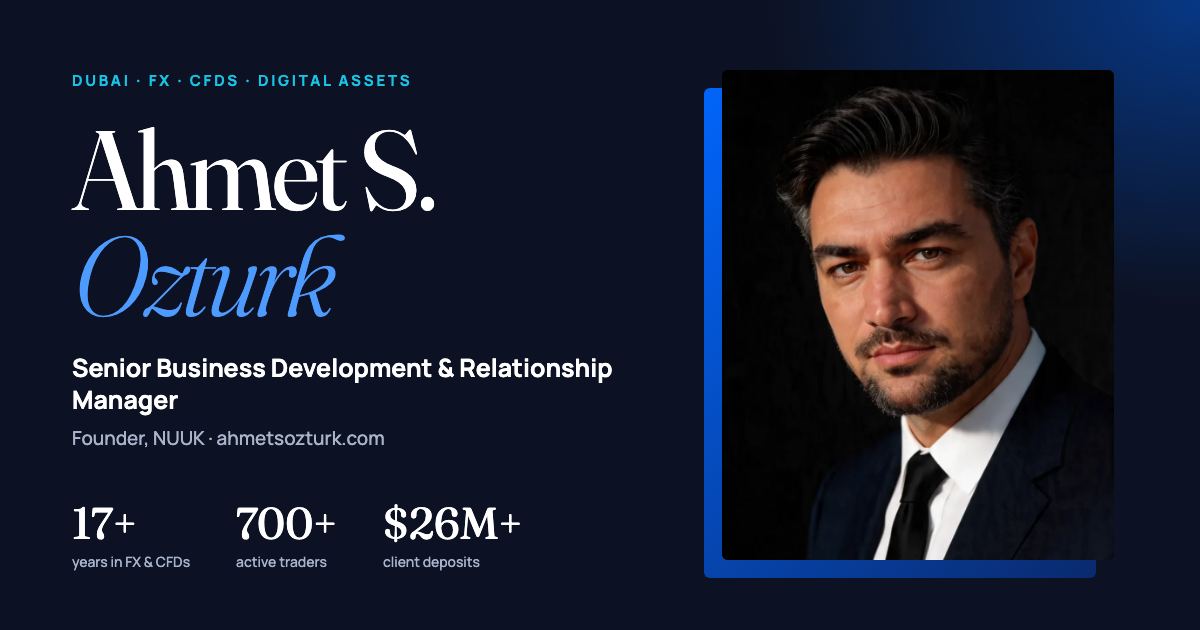
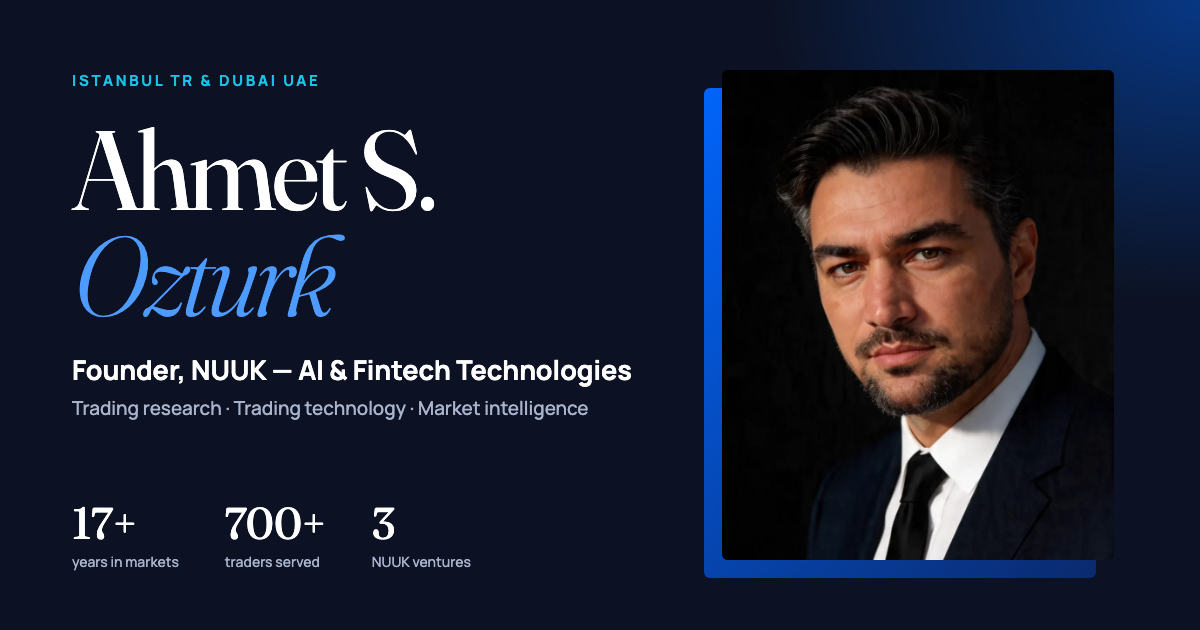
feat: reposition site as NUUK founder, AI & fintech technologies

diff --git a/index.html b/index.html
@@ -3,8 +3,8 @@
 <head>
 <meta charset="UTF-8">
 <meta name="viewport" content="width=device-width,initial-scale=1">
-<title>Ahmet S. Ozturk — FX, CFD &amp; Digital Assets BD | Founder of NUUK, Dubai</title>
-<meta name="description" content="Senior Business Development &amp; Relationship Manager with 17 years in FX and CFD brokerage across London, Istanbul and Dubai. 700+ active traders, USD 26M+ client deposits, founder of NUUK. Available immediately in Dubai.">
+<title>Ahmet S. Ozturk — Founder of NUUK | AI &amp; Fintech Technologies, Istanbul &amp; Dubai</title>
+<meta name="description" content="Ahmet S. Ozturk is the founder of NUUK, building AI-driven fintech: systematic trading research, a proprietary trading terminal and market intelligence. 17 years in FX and CFD markets across London, Istanbul and Dubai.">
 <meta name="author" content="Ahmet S. Ozturk">
 <meta name="robots" content="index, follow, max-image-preview:large">
 <meta name="theme-color" content="#f4f1ea">
@@ -14,18 +14,18 @@
 <meta property="og:type" content="profile">
 <meta property="og:url" content="https://ahmetsozturk.com/">
 <meta property="og:site_name" content="Ahmet S. Ozturk">
-<meta property="og:title" content="Ahmet S. Ozturk — Business Development &amp; Relationship Management, FX · CFDs · Digital Assets">
-<meta property="og:description" content="17 years in FX and CFD brokerage across London, Istanbul and Dubai. 700+ active traders, USD 26M+ client deposits. Founder of NUUK.">
+<meta property="og:title" content="Ahmet S. Ozturk — Founder of NUUK · AI &amp; Fintech Technologies">
+<meta property="og:description" content="Building AI-driven fintech at NUUK: systematic trading research, a proprietary trading terminal and market intelligence. Istanbul &amp; Dubai.">
 <meta property="og:image" content="https://ahmetsozturk.com/assets/og-image.png">
 <meta property="og:image:width" content="1200"><meta property="og:image:height" content="630">
-<meta property="og:image:alt" content="Ahmet S. Ozturk — FX, CFDs and Digital Assets, Dubai">
+<meta property="og:image:alt" content="Ahmet S. Ozturk — Founder of NUUK, AI &amp; Fintech Technologies">
 <meta property="og:locale" content="en_US"><meta property="og:locale:alternate" content="tr_TR">
 <meta name="twitter:card" content="summary_large_image">
-<meta name="twitter:title" content="Ahmet S. Ozturk — FX, CFD &amp; Digital Assets BD, Dubai">
-<meta name="twitter:description" content="17 years in FX and CFD brokerage. 700+ active traders, USD 26M+ client deposits. Founder of NUUK.">
+<meta name="twitter:title" content="Ahmet S. Ozturk — Founder of NUUK · AI &amp; Fintech">
+<meta name="twitter:description" content="AI-driven fintech at NUUK: trading research, a proprietary terminal and market intelligence. Istanbul &amp; Dubai.">
 <meta name="twitter:image" content="https://ahmetsozturk.com/assets/og-image.png">
 <script type="application/ld+json">
-{"@context":"https://schema.org","@type":"Person","name":"Ahmet S. Ozturk","givenName":"Ahmet","familyName":"Ozturk","url":"https://ahmetsozturk.com/","image":"https://ahmetsozturk.com/assets/og-image.png","jobTitle":"Senior Business Development & Relationship Manager — FX, CFDs & Digital Assets","email":"mailto:ahmet@ahmetsozturk.com","telephone":"+971586884464","knowsLanguage":["en","tr"],"address":{"@type":"PostalAddress","addressLocality":"Dubai","addressCountry":"AE"},"worksFor":{"@type":"Organization","name":"NUUK","url":"https://www.nuukquant.com/"},"alumniOf":{"@type":"CollegeOrUniversity","name":"Seneca College of Applied Arts and Technology"},"knowsAbout":["Business Development","Relationship Management","Introducing Broker partnerships","FX and CFD brokerage","Digital assets","Market and macro analysis","Systematic trading research"],"sameAs":["https://www.linkedin.com/in/ahmetsozturk/","https://www.nuukquant.com/"]}
+{"@context":"https://schema.org","@type":"Person","name":"Ahmet S. Ozturk","givenName":"Ahmet","familyName":"Ozturk","url":"https://ahmetsozturk.com/","image":"https://ahmetsozturk.com/assets/og-image.png","jobTitle":"Founder, NUUK — AI & Fintech Technologies","email":"mailto:ahmet@ahmetsozturk.com","telephone":"+971586884464","knowsLanguage":["en","tr"],"address":{"@type":"PostalAddress","addressLocality":"Dubai","addressCountry":"AE"},"worksFor":{"@type":"Organization","name":"NUUK","url":"https://www.nuukquant.com/"},"alumniOf":{"@type":"CollegeOrUniversity","name":"Seneca College of Applied Arts and Technology"},"knowsAbout":["Fintech","AI-driven trading research","Systematic trading","Trading technology","FX and CFD markets","Digital assets","Market and macro analysis"],"sameAs":["https://www.linkedin.com/in/ahmetsozturk/","https://www.nuukquant.com/"]}
 </script>
 <link rel="preconnect" href="https://fonts.googleapis.com"><link rel="preconnect" href="https://fonts.gstatic.com" crossorigin>
 <link href="https://fonts.googleapis.com/css2?family=Fraunces:ital,opsz,wght@0,9..144,300;0,9..144,400;0,9..144,500;0,9..144,600;1,9..144,300&family=Manrope:wght@400;500;600;700&display=swap" rel="stylesheet">
@@ -37,14 +37,16 @@
   <div class="nav-in">
     <a href="#top" class="brand"><span class="mono" aria-hidden="true">AÖ</span>Ahmet S. Ozturk</a>
     <div class="links">
-      <a href="#profile"><span data-tr>Profil</span><span data-en>Profile</span></a>
-      <a href="#career"><span data-tr>Kariyer</span><span data-en>Career</span></a>
+      <a href="#profile"><span data-tr>Vizyon</span><span data-en>Vision</span></a>
+      
       <a href="#nuuk">NUUK</a>
-      <a href="#skills"><span data-tr>Yetkinlikler</span><span data-en>Skills</span></a>
+      <a href="#career"><span data-tr>Yolculuk</span><span data-en>Track record</span></a>
+      <a href="#skills"><span data-tr>Uzmanlık</span><span data-en>Expertise</span></a>
       <a href="#contact"><span data-tr>İletişim</span><span data-en>Contact</span></a>
     </div>
     <div class="nav-r">
       <div class="lang" role="group" aria-label="Language"><button data-l="tr" aria-pressed="false">TR</button><button data-l="en" aria-pressed="true">EN</button></div>
+      <a class="btn solid sm" href="https://www.nuukquant.com/" target="_blank" rel="noopener">nuukquant.com</a>
     </div>
   </div>
 </nav>
@@ -54,14 +56,14 @@
   <div class="wrap">
     <div class="hero-grid">
       <div>
-        <div class="avail rv"><i></i><span data-tr>Dubai · BAE ikamet vizesi · Hemen başlayabilir</span><span data-en>Dubai · UAE residence visa · Available immediately</span></div>
+        <div class="avail rv"><i></i>Istanbul TR &amp; Dubai UAE</div>
         <h1 class="rv">Ahmet S.<br><em>Ozturk</em></h1>
-        <p class="role rv"><span data-tr>Kıdemli İş Geliştirme ve İlişki Yöneticisi</span><span data-en>Senior Business Development &amp; Relationship Manager</span></p>
-        <p class="sub rv"><span data-tr>FX, CFD ve Dijital Varlıklar · Türk ve MENA pazarları</span><span data-en>FX, CFDs &amp; Digital Assets · Turkish &amp; MENA markets</span></p>
-        <p class="lead rv"><span data-tr>Londra, İstanbul ve Dubai'de 17 yıldır FX ve CFD aracı kurum dünyasındayım: satış masasından Uluslararası FX Başkanlığı'na, ardından sekiz yıl boyunca kendi müşteri kapsama ve IB işimi kurarak. Bugün Dubai'de NUUK'u inşa ediyorum.</span><span data-en>Seventeen years in FX and CFD brokerage across London, Istanbul and Dubai: from the sales desk to Head of International FX, then eight years building my own client-coverage and IB business. Today I am building NUUK in Dubai.</span></p>
+        <p class="role rv"><span data-tr>Kurucu, NUUK — Yapay Zekâ ve Fintech Teknolojileri</span><span data-en>Founder, NUUK — AI &amp; Fintech Technologies</span></p>
+        <p class="sub rv"><span data-tr>Sistematik trading araştırması · Trading teknolojisi · Piyasa istihbaratı</span><span data-en>Systematic trading research · Trading technology · Market intelligence</span></p>
+        <p class="lead rv"><span data-tr>NUUK’ta yapay zekâ destekli finans teknolojileri geliştiriyorum: sistematik strateji araştırması, kendi trading terminalimiz ve yatırımcılar için piyasa istihbaratı. Arkasında Londra, İstanbul ve Dubai’de 17 yıllık FX ve CFD piyasa deneyimi var.</span><span data-en>At NUUK I build AI-driven financial technology: systematic strategy research, our own trading terminal and market intelligence for investors. Behind it are 17 years in FX and CFD markets across London, Istanbul and Dubai.</span></p>
         <div class="cta rv">
           <a class="btn solid" href="#contact"><span data-tr>İletişime geç</span><span data-en>Get in touch</span> <svg width="13" height="13" viewBox="0 0 14 14" fill="none" aria-hidden="true"><path d="M1 13L13 1M13 1H4M13 1V10" stroke="currentColor" stroke-width="1.6"/></svg></a>
-          <a class="btn line" href="#career"><span data-tr>Kariyeri gör</span><span data-en>View career</span></a>
+          <a class="btn line" href="#nuuk"><span data-tr>NUUK’u keşfet</span><span data-en>Explore NUUK</span></a>
         </div>
       </div>
       <div class="arch rv" aria-hidden="false">
@@ -75,10 +77,10 @@
       </div>
     </div>
     <div class="stats rv">
-      <div class="stat"><div class="n"><span data-count="17">17</span><sup>+</sup></div><div class="l"><span data-tr>yıl FX ve CFD aracı kurum deneyimi</span><span data-en>years in FX &amp; CFD brokerage</span></div></div>
-      <div class="stat"><div class="n"><span data-count="700">700</span><sup>+</sup></div><div class="l"><span data-tr>aktif trader'lık müşteri portföyü (2016–2024)</span><span data-en>active traders in the client book (2016–2024)</span></div></div>
-      <div class="stat"><div class="n"><sup>$</sup><span data-count="26">26</span><sup>M+</sup></div><div class="l"><span data-tr>toplam müşteri yatırımı (FX, CFD, dijital varlık)</span><span data-en>total client deposits across FX, CFD and digital assets</span></div></div>
-      <div class="stat"><div class="n"><sup>$</sup><span data-count="2">2</span>.5<sup>M</sup></div><div class="l"><span data-tr>IB ve rebate gelirinde sekiz yıl</span><span data-en>IB and rebate revenue over eight years</span></div></div>
+      <div class="stat"><div class="n"><span data-count="17">17</span><sup>+</sup></div><div class="l"><span data-tr>yıl FX ve CFD piyasalarında</span><span data-en>years in FX &amp; CFD markets</span></div></div>
+      <div class="stat"><div class="n"><span data-count="700">700</span><sup>+</sup></div><div class="l"><span data-tr>hizmet verilen aktif trader</span><span data-en>active traders served</span></div></div>
+      <div class="stat"><div class="n"><sup>$</sup><span data-count="26">26</span><sup>M+</sup></div><div class="l"><span data-tr>müşteri yatırımı (2016–2024)</span><span data-en>client deposits (2016–2024)</span></div></div>
+      <div class="stat"><div class="n"><span data-count="3">3</span></div><div class="l"><span data-tr>NUUK girişimi: Quant, Terminal, Human</span><span data-en>NUUK ventures: Quant, Terminal, Human</span></div></div>
     </div>
   </div>
   <div class="ticker" aria-hidden="true" style="margin-top:72px"><div class="ticker-in">
@@ -88,27 +90,60 @@
 
 <section id="profile">
   <div class="wrap">
-    <div class="head rv"><span class="num">01</span><h2><span data-tr>Profil</span><span data-en>Profile</span></h2><span class="rule"></span></div>
+    <div class="head rv"><span class="num">01</span><h2><span data-tr>Vizyon</span><span data-en>Vision</span></h2><span class="rule"></span></div>
     <div class="profile">
       <div class="rv">
-        <p class="pull"><span data-tr>Müşteriyi, aracı kurumu ve piyasayı <em>aynı masaya</em> getiren bir iş geliştirme profesyoneliyim.</span><span data-en>I bring the client, the broker and the market <em>to the same table</em>.</span></p>
+        <p class="pull"><span data-tr>Piyasa tecrübesini <em>yapay zekâ ile</em> ölçeklenebilir finans teknolojisine dönüştürüyorum.</span><span data-en>Turning market experience into <em>AI-driven</em> financial technology that scales.</span></p>
       </div>
       <div class="rv">
-        <p><span data-tr>Londra'da FXCM'de satışla başladım, Türk aracı kurumlarında yükseldim ve IKON Finance'te Uluslararası FX Başkanı oldum. 2016–2024 arasında Türkçe konuşan bireysel ve yüksek net değerli trader'lara hizmet veren bağımsız bir müşteri kapsama ve IB işi yürüttüm.</span><span data-en>I started in sales at FXCM in London, moved up through Turkish brokerage houses and became Head of International FX at IKON Finance. From 2016 to 2024 I ran an independent client-coverage and IB business serving Turkish-speaking retail and HNW traders.</span></p>
-        <p><span data-tr>Şimdi Dubai'de, aktif bir müşteri tabanını ve introducing broker ağını köklü bir BAE aracı kurumuna taşımak istiyorum.</span><span data-en>Now based in Dubai, I want to bring an active client base and an introducing-broker network to an established brokerage in the UAE.</span></p>
+        <p><span data-tr>FXCM Londra’dan IKON Finance’teki Uluslararası FX Başkanlığı’na, ardından sekiz yıl boyunca 700’ü aşkın trader’a hizmet veren kendi müşteri ve aracı kurum ortaklığı işime kadar piyasaların her katmanında çalıştım.</span><span data-en>From FXCM in London to Head of International FX at IKON Finance, then eight years running my own client and broker-partnership business serving 700+ traders, I have worked every layer of the market.</span></p>
+        <p><span data-tr>NUUK bu deneyimi teknolojiye çeviriyor: disiplinli risk kurallarıyla çalışan sistematik araştırma, kendi geliştirdiğimiz trading altyapısı ve Türkiye ile Körfez’deki yatırımcılar için anlaşılır piyasa istihbaratı.</span><span data-en>NUUK turns that experience into technology: systematic research built on disciplined risk rules, trading infrastructure we develop in-house, and clear market intelligence for investors across Türkiye and the Gulf.</span></p>
         <div class="pillars">
-          <div class="pillar"><span class="ic"><svg width="20" height="20" viewBox="0 0 24 24" fill="none" stroke="#fff" stroke-width="1.8"><circle cx="9" cy="8" r="3.2"/><path d="M3 20c0-3.4 2.7-6 6-6s6 2.6 6 6"/><path d="M16 5.5a3 3 0 010 5.6M18 14.4c1.7.8 3 2.6 3 5.6"/></svg></span><div><b><span data-tr>Müşteri kazanımı ve elde tutma</span><span data-en>Client acquisition &amp; retention</span></b><p><span data-tr>Onboarding'den günlük kapsamaya; yeni iş çoğunlukla mevcut müşteri tavsiyelerinden geldi.</span><span data-en>From onboarding to day-to-day coverage; most new business came from existing-client referrals.</span></p></div></div>
-          <div class="pillar"><span class="ic"><svg width="20" height="20" viewBox="0 0 24 24" fill="none" stroke="#fff" stroke-width="1.8"><path d="M4 12h6l2-4 3 8 2-4h3"/><rect x="2.5" y="4" width="19" height="16" rx="3"/></svg></span><div><b><span data-tr>IB ortaklıkları</span><span data-en>IB partnerships</span></b><p>Tickmill, Saxo Bank, A1 Capital, Midas. <span data-tr>IB, rebate ve gelir paylaşımı anlaşmalarını bizzat müzakere ettim.</span><span data-en>I negotiated the IB, rebate and revenue-share agreements myself.</span></p></div></div>
-          <div class="pillar"><span class="ic"><svg width="20" height="20" viewBox="0 0 24 24" fill="none" stroke="#fff" stroke-width="1.8"><path d="M3 17l5-6 4 3 8-9"/><path d="M15 5h5v5"/></svg></span><div><b><span data-tr>Piyasa ve makro analiz</span><span data-en>Market &amp; macro analysis</span></b><p><span data-tr>Borsa İstanbul ve küresel piyasalar için yayınlanan analizler; TradingView profilim ana müşteri kaynağıydı.</span><span data-en>Published analysis on Borsa Istanbul and global markets; my TradingView profile became the main source of new leads.</span></p></div></div>
+          <div class="pillar"><span class="ic"><svg width="20" height="20" viewBox="0 0 24 24" fill="none" stroke="#fff" stroke-width="1.8"><rect x="6" y="6" width="12" height="12" rx="2"/><path d="M10 10h4v4h-4zM9 2v4M15 2v4M9 18v4M15 18v4M2 9h4M2 15h4M18 9h4M18 15h4"/></svg></span><div><b><span data-tr>Yapay zekâ destekli araştırma</span><span data-en>AI-driven research</span></b><p><span data-tr>FX, altın, endeks ve dijital varlıklarda sistematik strateji geliştirme ve walk-forward test.</span><span data-en>Systematic strategy development and walk-forward testing across FX, gold, indices and digital assets.</span></p></div></div>
+          <div class="pillar"><span class="ic"><svg width="20" height="20" viewBox="0 0 24 24" fill="none" stroke="#fff" stroke-width="1.8"><rect x="2.5" y="4" width="19" height="13" rx="2"/><path d="M8 21h8M12 17v4M6 13l3-3 3 2 5-5"/></svg></span><div><b><span data-tr>Trading teknolojisi</span><span data-en>Trading technology</span></b><p><span data-tr>Atlanamayan risk korumasına sahip NUUK Terminal ve MetaTrader altyapısı.</span><span data-en>NUUK Terminal with a non-bypassable risk guard, plus MetaTrader infrastructure.</span></p></div></div>
+          <div class="pillar"><span class="ic"><svg width="20" height="20" viewBox="0 0 24 24" fill="none" stroke="#fff" stroke-width="1.8"><path d="M3 17l5-6 4 3 8-9"/><path d="M15 5h5v5"/></svg></span><div><b><span data-tr>Piyasa istihbaratı</span><span data-en>Market intelligence</span></b><p><span data-tr>Günlük piyasa kapsamı ve her rakamın kaynağı belirtilmiş araştırma içerikleri.</span><span data-en>Daily market coverage and research with the source of every figure stated.</span></p></div></div>
         </div>
       </div>
     </div>
   </div>
 </section>
 
-<section id="career" style="padding-top:0">
+<section id="nuuk" class="dark">
   <div class="wrap">
-    <div class="head rv"><span class="num">02</span><h2><span data-tr>Kariyer</span><span data-en>Career</span></h2><span class="rule"></span></div>
+    <div class="head rv"><span class="num">02</span><h2><span data-tr><em>NUUK</em> ekosistemi</span><span data-en>The <em>NUUK</em> ecosystem</span></h2><span class="rule"></span></div>
+    <div class="nuuk-hero">
+      <div class="rv">
+        <img class="wm" src="assets/img/nuuk-wordmark-white.svg" alt="NUUK" width="65" height="46">
+        <p><span data-tr>NUUK; FX, altın, endeks ve dijital varlıklar üzerinde disiplinli piyasa araştırması ve sistematik strateji geliştirme girişimi. Her sistem; pozisyon büyüklüğü, maruziyet ve drawdown kurallarıyla tasarlanıyor.</span><span data-en>NUUK is a markets-research and systematic-strategy venture across FX, gold, indices and digital assets. Every system is built around explicit rules for position size, exposure and drawdown.</span></p>
+        <a class="btn onDark" href="https://www.nuukquant.com/" target="_blank" rel="noopener">nuukquant.com <svg width="13" height="13" viewBox="0 0 14 14" fill="none" aria-hidden="true"><path d="M1 13L13 1M13 1H4M13 1V10" stroke="currentColor" stroke-width="1.6"/></svg></a>
+      </div>
+      <div class="car rv"><img src="assets/img/nuuk-f1.webp" alt="NUUK-liveried race car in a dark studio" width="900" height="502" loading="lazy"></div>
+    </div>
+    <div class="vgrid">
+      <a class="vcard rv" href="https://www.nuukquant.com/" target="_blank" rel="noopener">
+        <div class="vmedia" style="display:grid;place-items:center;background:radial-gradient(70% 90% at 50% 100%,rgb(1 101 250 / .5),#070b17)"><img src="assets/img/nuuk-wordmark-white.svg" alt="" style="width:46%;height:auto;object-fit:contain" loading="lazy"></div>
+        <div class="vbody"><span class="k">NUUK Quant</span><h3><span data-tr>Günlük piyasa kapsamı</span><span data-en>Daily market coverage</span></h3><p><span data-tr>DIFC merkezli kurumsal site: piyasa notları, araştırma ve eğitim içerikleri; her rakamın kaynağı ve yöntemi belirtilir.</span><span data-en>The DIFC-based company site: market notes, research and education, with the source and method stated for every figure.</span></p><span class="go"><span data-tr>Siteyi aç</span><span data-en>Open site</span> <svg width="13" height="13" viewBox="0 0 14 14" fill="none" aria-hidden="true"><path d="M1 13L13 1M13 1H4M13 1V10" stroke="currentColor" stroke-width="1.6"/></svg></span></div>
+      </a>
+      <a class="vcard rv" href="https://ahmetsozt.github.io/nuukandhuman/" target="_blank" rel="noopener">
+        <div class="vmedia"><img src="assets/img/nuukandhuman.webp" alt="NUUK &amp; Human website" width="1200" height="611" loading="lazy"></div>
+        <div class="vbody"><span class="k">NUUK &amp; Human</span><h3><span data-tr>İşe alım ve İK danışmanlığı</span><span data-en>Recruitment &amp; HR advisory</span></h3><p><span data-tr>Finansal piyasalar, gayrimenkul ve teknik sektörlere odaklı uzman işe alım; TR/EN yayında. Burcu Şarlı Öztürk ile birlikte kuruldu.</span><span data-en>Specialist recruitment for financial markets, real estate and technical sectors; live in EN/TR. Co-founded with Burcu Şarlı Öztürk.</span></p><span class="go"><span data-tr>Siteyi aç</span><span data-en>Open site</span> <svg width="13" height="13" viewBox="0 0 14 14" fill="none" aria-hidden="true"><path d="M1 13L13 1M13 1H4M13 1V10" stroke="currentColor" stroke-width="1.6"/></svg></span></div>
+      </a>
+      <div class="vcard rv">
+        <div class="vmedia"><div class="term" aria-hidden="true">
+          <div class="r"><span>XAUUSD</span><b class="cy">PAPER</b></div><div class="r"><span>risk / trade</span><b>capped</b></div><div class="r"><span>stop-loss</span><b class="ok">mandatory</b></div><div class="r"><span>risk guard</span><b class="ok">non-bypassable</b></div><div class="r"><span>fills</span><b>MT4-exact math</b></div></div></div>
+        <div class="vbody"><span class="k">NUUK Terminal</span><h3><span data-tr>Araştırma terminali</span><span data-en>Research terminal</span></h3><p><span data-tr>Kendi araştırmam için geliştirdiğim masaüstü terminal: MT4 matematiğiyle sanal işlem, zorunlu stop-loss ve atlanamayan risk koruması. Geliştirme aşamasında.</span><span data-en>A desktop terminal I build for my own research: MT4-exact paper trading, mandatory stop-loss and a risk guard that cannot be bypassed. In development.</span></p></div>
+      </div>
+    </div>
+    <div class="note rv">
+      <div><b><span data-tr>Araştırma anlık görüntüsü</span><span data-en>Research snapshot</span></b><span data-tr>Geriye dönük test; canlı sonuç değildir</span><span data-en>Backtest, not live results</span></div>
+      <div class="bt"><div><strong>+10.9%</strong><span data-tr>yıllık, walk-forward 2010–2026</span><span data-en>p.a., walk-forward 2010–2026</span></div><div><strong>6.7%</strong><span data-tr>maks. drawdown</span><span data-en>max drawdown</span></div><div><strong>1.36</strong>Sharpe</div></div>
+    </div>
+  </div>
+</section>
+
+<section id="career">
+  <div class="wrap">
+    <div class="head rv"><span class="num">03</span><h2><span data-tr>Yolculuk</span><span data-en>Track record</span></h2><span class="rule"></span></div>
     <div class="route" role="img" aria-label="Career route 2009 to 2026: London, Istanbul, Dubai">
       <svg viewBox="0 0 1100 250">
         <defs><linearGradient id="rg" x1="0" y1="0" x2="0" y2="1"><stop offset="0" stop-color="#0165fa" stop-opacity=".22"/><stop offset="1" stop-color="#0165fa" stop-opacity="0"/></linearGradient></defs>
@@ -156,42 +191,10 @@
   </div>
 </section>
 
-<section id="nuuk" class="dark">
-  <div class="wrap">
-    <div class="head rv"><span class="num">03</span><h2><span data-tr>Dubai'de inşa ettiğim: <em>NUUK</em></span><span data-en>What I'm building in Dubai: <em>NUUK</em></span></h2><span class="rule"></span></div>
-    <div class="nuuk-hero">
-      <div class="rv">
-        <img class="wm" src="assets/img/nuuk-wordmark-white.svg" alt="NUUK" width="65" height="46">
-        <p><span data-tr>NUUK; FX, altın, endeks ve dijital varlıklar üzerinde disiplinli piyasa araştırması ve sistematik strateji geliştirme girişimi. Her sistem; pozisyon büyüklüğü, maruziyet ve drawdown kurallarıyla tasarlanıyor.</span><span data-en>NUUK is a markets-research and systematic-strategy venture across FX, gold, indices and digital assets. Every system is built around explicit rules for position size, exposure and drawdown.</span></p>
-        <a class="btn onDark" href="https://www.nuukquant.com/" target="_blank" rel="noopener">nuukquant.com <svg width="13" height="13" viewBox="0 0 14 14" fill="none" aria-hidden="true"><path d="M1 13L13 1M13 1H4M13 1V10" stroke="currentColor" stroke-width="1.6"/></svg></a>
-      </div>
-      <div class="car rv"><img src="assets/img/nuuk-f1.webp" alt="NUUK-liveried race car in a dark studio" width="900" height="502" loading="lazy"></div>
-    </div>
-    <div class="vgrid">
-      <a class="vcard rv" href="https://www.nuukquant.com/" target="_blank" rel="noopener">
-        <div class="vmedia" style="display:grid;place-items:center;background:radial-gradient(70% 90% at 50% 100%,rgb(1 101 250 / .5),#070b17)"><img src="assets/img/nuuk-wordmark-white.svg" alt="" style="width:46%;height:auto;object-fit:contain" loading="lazy"></div>
-        <div class="vbody"><span class="k">NUUK Quant</span><h3><span data-tr>Günlük piyasa kapsamı</span><span data-en>Daily market coverage</span></h3><p><span data-tr>DIFC merkezli kurumsal site: piyasa notları, araştırma ve eğitim içerikleri; her rakamın kaynağı ve yöntemi belirtilir.</span><span data-en>The DIFC-based company site: market notes, research and education, with the source and method stated for every figure.</span></p><span class="go"><span data-tr>Siteyi aç</span><span data-en>Open site</span> <svg width="13" height="13" viewBox="0 0 14 14" fill="none" aria-hidden="true"><path d="M1 13L13 1M13 1H4M13 1V10" stroke="currentColor" stroke-width="1.6"/></svg></span></div>
-      </a>
-      <a class="vcard rv" href="https://ahmetsozt.github.io/nuukandhuman/" target="_blank" rel="noopener">
-        <div class="vmedia"><img src="assets/img/nuukandhuman.webp" alt="NUUK &amp; Human website" width="1200" height="611" loading="lazy"></div>
-        <div class="vbody"><span class="k">NUUK &amp; Human</span><h3><span data-tr>İşe alım ve İK danışmanlığı</span><span data-en>Recruitment &amp; HR advisory</span></h3><p><span data-tr>Finansal piyasalar, gayrimenkul ve teknik sektörlere odaklı uzman işe alım; TR/EN yayında. Burcu Şarlı Öztürk ile birlikte kuruldu.</span><span data-en>Specialist recruitment for financial markets, real estate and technical sectors; live in EN/TR. Co-founded with Burcu Şarlı Öztürk.</span></p><span class="go"><span data-tr>Siteyi aç</span><span data-en>Open site</span> <svg width="13" height="13" viewBox="0 0 14 14" fill="none" aria-hidden="true"><path d="M1 13L13 1M13 1H4M13 1V10" stroke="currentColor" stroke-width="1.6"/></svg></span></div>
-      </a>
-      <div class="vcard rv">
-        <div class="vmedia"><div class="term" aria-hidden="true">
-          <div class="r"><span>XAUUSD</span><b class="cy">PAPER</b></div><div class="r"><span>risk / trade</span><b>capped</b></div><div class="r"><span>stop-loss</span><b class="ok">mandatory</b></div><div class="r"><span>risk guard</span><b class="ok">non-bypassable</b></div><div class="r"><span>fills</span><b>MT4-exact math</b></div></div></div>
-        <div class="vbody"><span class="k">NUUK Terminal</span><h3><span data-tr>Araştırma terminali</span><span data-en>Research terminal</span></h3><p><span data-tr>Kendi araştırmam için geliştirdiğim masaüstü terminal: MT4 matematiğiyle sanal işlem, zorunlu stop-loss ve atlanamayan risk koruması. Geliştirme aşamasında.</span><span data-en>A desktop terminal I build for my own research: MT4-exact paper trading, mandatory stop-loss and a risk guard that cannot be bypassed. In development.</span></p></div>
-      </div>
-    </div>
-    <div class="note rv">
-      <div><b><span data-tr>Araştırma anlık görüntüsü</span><span data-en>Research snapshot</span></b><span data-tr>Geriye dönük test; canlı sonuç değildir</span><span data-en>Backtest, not live results</span></div>
-      <div class="bt"><div><strong>+10.9%</strong><span data-tr>yıllık, walk-forward 2010–2026</span><span data-en>p.a., walk-forward 2010–2026</span></div><div><strong>6.7%</strong><span data-tr>maks. drawdown</span><span data-en>max drawdown</span></div><div><strong>1.36</strong>Sharpe</div></div>
-    </div>
-  </div>
-</section>
 
 <section id="skills">
   <div class="wrap">
-    <div class="head rv"><span class="num">04</span><h2><span data-tr>Yetkinlikler</span><span data-en>Skills</span></h2><span class="rule"></span></div>
+    <div class="head rv"><span class="num">04</span><h2><span data-tr>Uzmanlık</span><span data-en>Expertise</span></h2><span class="rule"></span></div>
     <div class="skills rv">
       <div class="sk"><h4><span data-tr>İş geliştirme</span><span data-en>Business development</span></h4><ul><li><span data-tr>Müşteri kazanımı ve elde tutma</span><span data-en>Client acquisition &amp; retention</span></li><li><span data-tr>İlişki yönetimi</span><span data-en>Relationship management</span></li><li><span data-tr>IB ortaklıkları</span><span data-en>IB partnerships</span></li><li><span data-tr>Ticari müzakere</span><span data-en>Commercial negotiation</span></li></ul></div>
       <div class="sk"><h4><span data-tr>Piyasalar</span><span data-en>Markets</span></h4><ul><li><span data-tr>FX ve CFD satışı</span><span data-en>FX &amp; CFD sales</span></li><li><span data-tr>Dijital varlıklar</span><span data-en>Digital assets</span></li><li><span data-tr>Piyasa ve makro analiz</span><span data-en>Market &amp; macro analysis</span></li><li><span data-tr>Hazine ve likidite</span><span data-en>Treasury &amp; liquidity</span></li></ul></div>
@@ -201,7 +204,7 @@
     <div class="edu">
       <div class="ebox rv"><span class="label"><span data-tr>Eğitim</span><span data-en>Education</span></span><b>International Business Administration (Co-op)</b><span>Seneca College, Toronto · 2005–2008</span></div>
       <div class="ebox rv"><span class="label"><span data-tr>Diller</span><span data-en>Languages</span></span><b><span data-tr>Türkçe · İngilizce</span><span data-en>Turkish · English</span></b><span><span data-tr>Ana dil · Tam profesyonel</span><span data-en>Native · Full professional</span></span></div>
-      <div class="ebox rv"><span class="label"><span data-tr>Çalışma izni</span><span data-en>Work authorization</span></span><b><span data-tr>BAE ikamet vizesi</span><span data-en>UAE residence visa</span></b><span><span data-tr>Dubai'de, hemen başlayabilir</span><span data-en>Based in Dubai, available immediately</span></span></div>
+      <div class="ebox rv"><span class="label"><span data-tr>Merkezler</span><span data-en>Bases</span></span><b>Istanbul TR &amp; Dubai UAE</b><span>NUUK · DIFC, Dubai</span></div>
     </div>
   </div>
 </section>
@@ -210,7 +213,7 @@
   <div class="wrap">
     <div class="head rv"><span class="num">05</span><h2><span data-tr>İletişim</span><span data-en>Contact</span></h2><span class="rule"></span></div>
     <div class="cgrid">
-      <p class="big rv"><span data-tr>Bir sonraki adımı <em>konuşalım.</em></span><span data-en>Let's talk about <em>what's next.</em></span></p>
+      <p class="big rv"><span data-tr>Birlikte <em>inşa edelim.</em></span><span data-en>Let's <em>build together.</em></span></p>
       <div class="rv">
         <a class="crow" href="mailto:ahmet@ahmetsozturk.com"><span class="k">Email</span><span class="v">ahmet@ahmetsozturk.com</span></a>
         <a class="crow" href="tel:+971586884464"><span class="k"><span data-tr>Telefon</span><span data-en>Phone</span></span><span class="v">+971 58 688 4464</span></a>
